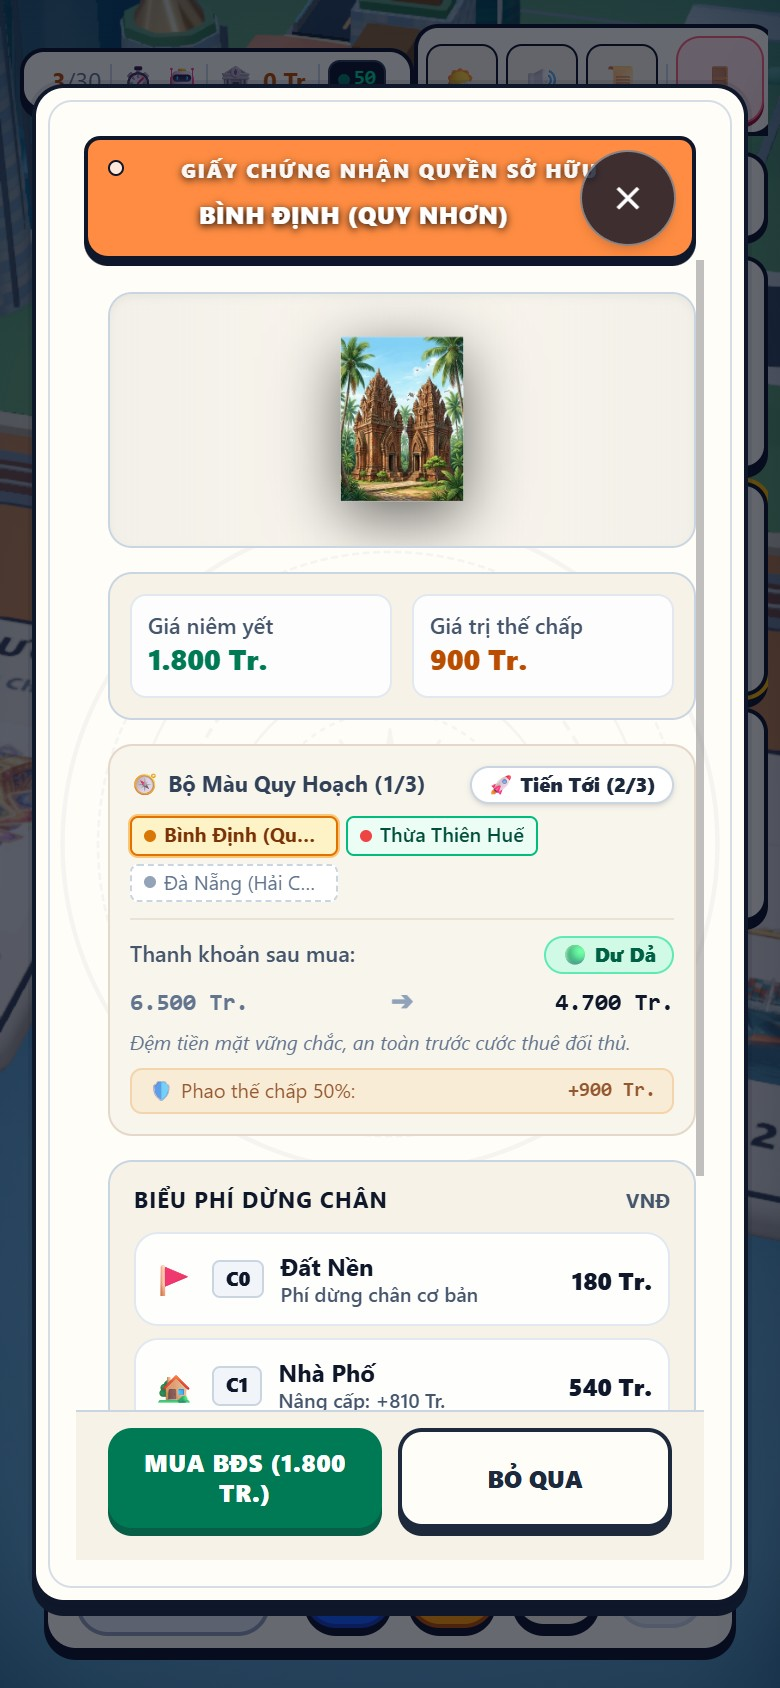
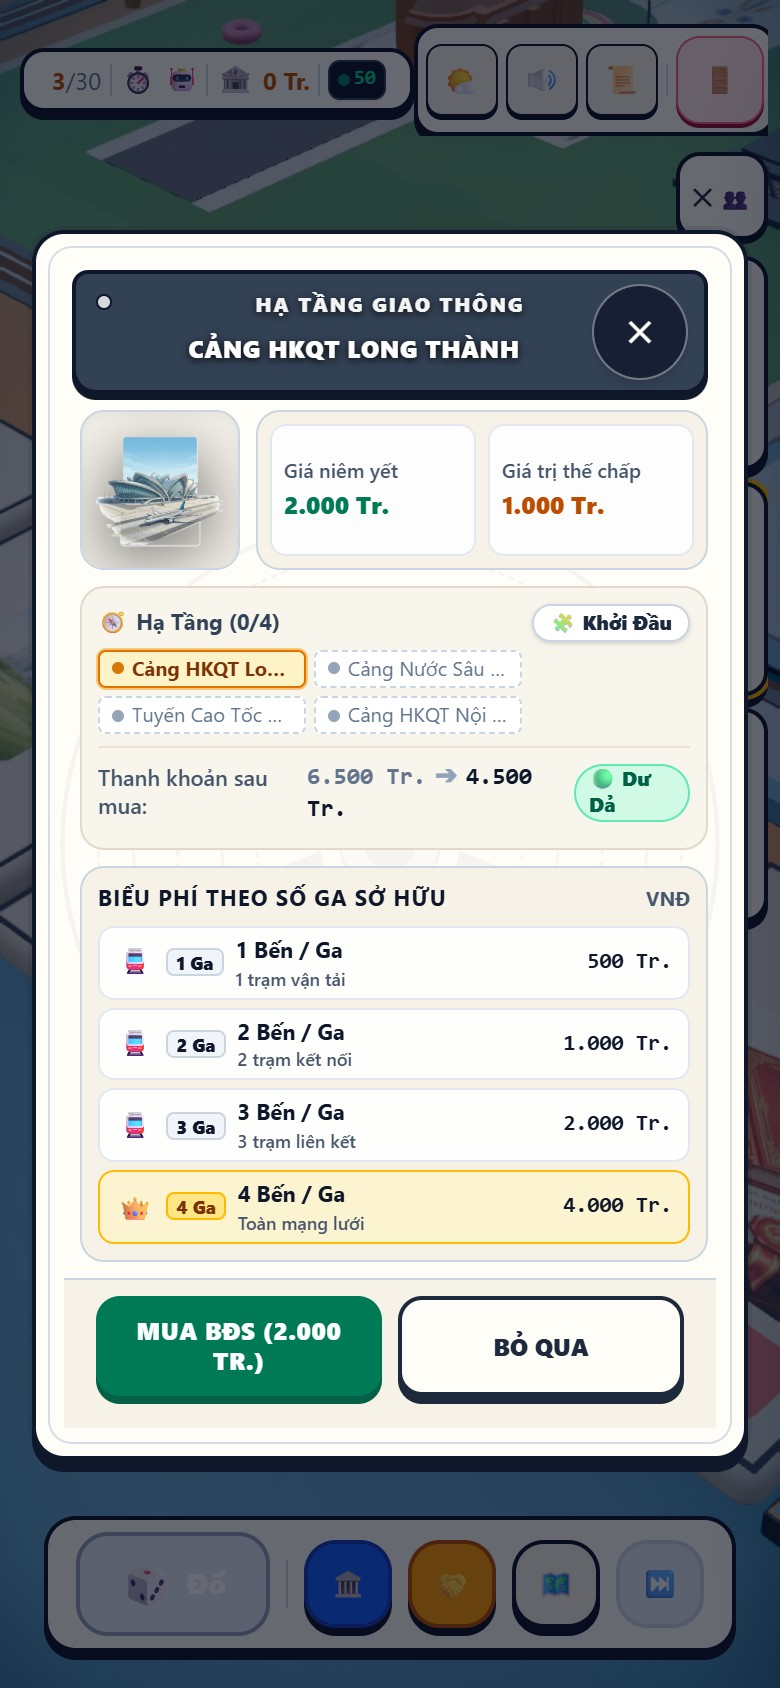
Ui refine

diff --git a/src/client/ui/modals/title_deed_rent_table.tsx b/src/client/ui/modals/title_deed_rent_table.tsx
@@ -38,7 +38,7 @@ export function TitleDeedRentTable({
   const hasUpgrades = upgradeCosts.some((cost) => cost > 0);
 
   return (
-    <div className="bg-[#F7F2E7] rounded-xl border border-slate-300 p-3 space-y-2">
+    <div className="bg-[#F7F2E7] rounded-xl border border-slate-300 p-2 sm:p-3 space-y-1.5 sm:space-y-2">
       <div className="flex items-center justify-between">
         <p className="text-[11px] font-bold text-slate-900 uppercase tracking-wider">
           {isRailroad ? 'Biểu Phí Theo Số Ga Sở Hữu' : isUtility ? 'Phí Dịch Vụ Cơ Bản' : 'Biểu Phí Dừng Chân'}
@@ -47,10 +47,10 @@ export function TitleDeedRentTable({
       </div>
 
       {isUtility ? (
-        <div className="space-y-2 text-xs text-slate-900">
-          <div className="flex justify-between items-center p-2 rounded-lg bg-white/90 border border-slate-200">
+        <div className="space-y-1.5 sm:space-y-2 text-xs text-slate-900">
+          <div className="flex justify-between items-center p-1.5 sm:p-2 rounded-lg bg-white/90 border border-slate-200">
             <div className="flex items-center gap-2">
-              <span className="text-base" aria-hidden="true">⚡</span>
+              <span className="text-sm sm:text-base" aria-hidden="true">⚡</span>
               <span className="font-semibold text-slate-900">Phí cơ sở (1 trạm):</span>
             </div>
             <span className="font-bold text-slate-900">{formatCurrency(rents[0] ?? 0)}</span>
@@ -60,7 +60,7 @@ export function TitleDeedRentTable({
           </p>
         </div>
       ) : (
-        <div className="space-y-1.5">
+        <div className="space-y-1 sm:space-y-1.5">
           {rents.map((rent, idx) => {
             const tier = tiers[idx];
             const isMax = idx === 3;
@@ -75,14 +75,14 @@ export function TitleDeedRentTable({
             return (
               <div
                 key={tier ? tier.chip : idx}
-                className={`flex justify-between items-center p-2 rounded-xl border transition-all ${tierClass}`}
+                className={`flex justify-between items-center px-2 py-1 sm:p-2 rounded-lg sm:rounded-xl border transition-all ${tierClass}`}
               >
-                <div className="flex items-center gap-2">
-                  <span className="text-base" aria-hidden="true">
+                <div className="flex items-center gap-1.5 sm:gap-2 min-w-0">
+                  <span className="text-sm sm:text-base shrink-0" aria-hidden="true">
                     {tier?.icon}
                   </span>
                   <span
-                    className={`text-[10px] font-black px-1.5 py-0.5 rounded border ${
+                    className={`text-[9px] sm:text-[10px] font-black px-1 sm:px-1.5 py-0.2 sm:py-0.5 rounded border shrink-0 ${
                       isMax
                         ? 'bg-amber-200 text-amber-900 border-amber-400'
                         : 'bg-slate-100 text-slate-900 border-slate-300'
@@ -90,17 +90,17 @@ export function TitleDeedRentTable({
                   >
                     {tier?.chip}
                   </span>
-                  <div className="flex flex-col">
-                    <span className="font-bold text-xs text-slate-900">
+                  <div className="flex flex-col min-w-0">
+                    <span className="font-bold text-[11px] sm:text-xs text-slate-900 truncate">
                       {tier?.label}
                     </span>
-                    <span className="text-[10px] text-slate-600 font-medium">
+                    <span className="text-[9px] sm:text-[10px] text-slate-600 font-medium truncate">
                       {cost && cost > 0 ? `Nâng cấp: +${formatCurrency(cost)}` : tier?.sub}
                     </span>
                   </div>
                 </div>
-                <div className="flex flex-col items-end">
-                  <span className="font-black text-xs text-slate-900">
+                <div className="flex flex-col items-end shrink-0 pl-1">
+                  <span className="font-black text-[11px] sm:text-xs text-slate-900 font-mono">
                     {formatCurrency(
                       idx === 0 && hasMonopoly && !isRailroad && !isUtility
                         ? rent * 2
@@ -110,10 +110,10 @@ export function TitleDeedRentTable({
                     )}
                   </span>
                   {idx === 0 && hasMonopoly && !isRailroad && !isUtility && (
-                    <span className="text-[9px] font-extrabold text-emerald-700">x2 ĐỘC QUYỀN</span>
+                    <span className="text-[8px] sm:text-[9px] font-extrabold text-emerald-700">x2 ĐỘC QUYỀN</span>
                   )}
                   {idx === 3 && hasMonopoly && !isRailroad && !isUtility && (
-                    <span className="text-[9px] font-extrabold text-amber-700">x1.5 ĐỘC QUYỀN</span>
+                    <span className="text-[8px] sm:text-[9px] font-extrabold text-amber-700">x1.5 ĐỘC QUYỀN</span>
                   )}
                 </div>
               </div>

diff --git a/src/client/ui/modals/title_deed_modal.tsx b/src/client/ui/modals/title_deed_modal.tsx
@@ -140,7 +140,7 @@ export function TitleDeedModal({
 
   return (
     <div
-      className="relative w-full max-w-md max-h-[90dvh] md:max-h-[85vh] bg-[#FFFDF8] border-2 border-slate-900 rounded-2xl shadow-[0_6px_0_0_#0f172a] ring-2 ring-slate-900/10 overflow-hidden flex flex-col pointer-events-auto animate-in zoom-in-90 fade-in duration-200 ease-out select-none p-5 text-slate-900"
+      className="relative w-full max-w-md max-h-[90dvh] md:max-h-[85vh] bg-[#FFFDF8] border-2 border-slate-900 rounded-2xl shadow-[0_6px_0_0_#0f172a] ring-2 ring-slate-900/10 overflow-hidden flex flex-col pointer-events-auto animate-in zoom-in-90 fade-in duration-200 ease-out select-none p-3.5 sm:p-5 text-slate-900"
       data-testid="title-deed-modal"
     >
       {/* Khung viền chỉ mực kép bên trong */}
@@ -234,26 +234,32 @@ export function TitleDeedModal({
       ))}
 
       {/* Thân thẻ cuộn mượt mà */}
-      <div className="relative z-10 flex-1 min-h-0 overflow-y-auto pr-1 p-4 space-y-3 text-xs md:text-sm text-slate-900">
-        <TitleDeedArtShowcase
-          tileAssetUrl={tileAssetUrl}
-          deedName={deed.name}
-          ribbonColor={ribbonColor}
-          isRailroad={isRailroad}
-          isUtility={isUtility}
-          showImage={showImage}
-          onImageError={() => setImageError(true)}
-        />
-
-        {/* Khối giá niêm yết & giá thế chấp */}
-        <div className="grid grid-cols-2 gap-2.5 bg-[#F7F2E7] p-2.5 rounded-xl border border-slate-300">
-          <div className="bg-white/90 p-2 rounded-lg border border-slate-200">
-            <span className="text-slate-600 block text-[11px] font-medium">Giá niêm yết</span>
-            <span className="text-emerald-700 font-extrabold text-sm">{formatCurrency(deed.price)}</span>
+      <div className="relative z-10 flex-1 min-h-0 overflow-y-auto pr-1 p-2 sm:p-4 space-y-2 sm:space-y-3 text-xs md:text-sm text-slate-900">
+        {/* Hàng Hero Media & Giá niêm yết: Đặt ngang trên Mobile để tiết kiệm tối đa không gian thẳng đứng */}
+        <div className="flex flex-row gap-2 sm:gap-2.5 items-stretch">
+          <div className="w-20 h-20 sm:w-28 sm:h-28 shrink-0">
+            <TitleDeedArtShowcase
+              tileAssetUrl={tileAssetUrl}
+              deedName={deed.name}
+              ribbonColor={ribbonColor}
+              isRailroad={isRailroad}
+              isUtility={isUtility}
+              showImage={showImage}
+              onImageError={() => setImageError(true)}
+              className="w-full h-full"
+            />
           </div>
-          <div className="bg-white/90 p-2 rounded-lg border border-slate-200">
-            <span className="text-slate-600 block text-[11px] font-medium">Giá trị thế chấp</span>
-            <span className="text-amber-700 font-extrabold text-sm">{formatCurrency(deed.mortgageValue)}</span>
+
+          {/* Khối giá niêm yết & giá thế chấp */}
+          <div className="flex-1 grid grid-cols-2 gap-1.5 sm:gap-2.5 bg-[#F7F2E7] p-1.5 sm:p-2.5 rounded-xl border border-slate-300">
+            <div className="bg-white/90 p-1.5 sm:p-2 rounded-lg border border-slate-200 flex flex-col justify-center">
+              <span className="text-slate-600 block text-[10px] sm:text-[11px] font-medium leading-none mb-1">Giá niêm yết</span>
+              <span className="text-emerald-700 font-extrabold text-xs sm:text-sm">{formatCurrency(deed.price)}</span>
+            </div>
+            <div className="bg-white/90 p-1.5 sm:p-2 rounded-lg border border-slate-200 flex flex-col justify-center">
+              <span className="text-slate-600 block text-[10px] sm:text-[11px] font-medium leading-none mb-1">Giá trị thế chấp</span>
+              <span className="text-amber-700 font-extrabold text-xs sm:text-sm">{formatCurrency(deed.mortgageValue)}</span>
+            </div>
           </div>
         </div>
 

diff --git a/src/client/ui/modals/purchase_decision_card.tsx b/src/client/ui/modals/purchase_decision_card.tsx
@@ -38,9 +38,9 @@ export function PurchaseDecisionCard({
   const { radar } = insight;
 
   return (
-    <div className="bg-[#F8F5ED] border border-amber-900/15 rounded-xl p-2.5 space-y-2 select-none text-xs text-slate-800" data-testid="purchase-decision-card">
+    <div className="bg-[#F8F5ED] border border-amber-900/15 rounded-xl p-2 sm:p-2.5 space-y-1.5 sm:space-y-2 select-none text-xs text-slate-800" data-testid="purchase-decision-card">
       {/* Khối 1: Radar nhóm & Tiến độ độc quyền */}
-      <div className="space-y-1.5">
+      <div className="space-y-1 sm:space-y-1.5">
         <div className="flex items-center justify-between gap-1 text-[11px]">
           <span className="font-bold text-slate-700 flex items-center gap-1">
             <span>🧭</span>
@@ -73,20 +73,22 @@ export function PurchaseDecisionCard({
       </div>
 
       {/* Khối 2: Đệm tiền mặt & An toàn thanh khoản */}
-      <div className="pt-2 border-t border-amber-900/10 space-y-1.5">
+      <div className="pt-1.5 sm:pt-2 border-t border-amber-900/10 space-y-1 sm:space-y-1.5">
         <div className="flex items-center justify-between text-[11px]">
           <span className="text-slate-600 font-medium">Thanh khoản sau mua:</span>
-          <span className={`px-2 py-0.5 rounded-full text-[10px] font-black border ${TONE_CLASSES[cashBuffer.tone]}`} data-testid="cash-buffer-badge">
-            {cashBuffer.tone === 'emerald' ? '🟢' : cashBuffer.tone === 'amber' ? '🟡' : '🔴'} {cashBuffer.label}
-          </span>
+          <div className="flex items-center gap-1.5">
+            <span className="text-xs font-mono font-bold">
+              <span className="text-slate-500">{formatCurrency(effectiveBalance)}</span>
+              <span className="text-slate-400 mx-1">➔</span>
+              <span className={cashBuffer.tone === 'rose' ? 'text-rose-700' : 'text-slate-900'}>{formatCurrency(cashBuffer.balanceAfterBuy)}</span>
+            </span>
+            <span className={`px-1.5 py-0.2 rounded-full text-[10px] font-black border ${TONE_CLASSES[cashBuffer.tone]}`} data-testid="cash-buffer-badge">
+              {cashBuffer.tone === 'emerald' ? '🟢' : cashBuffer.tone === 'amber' ? '🟡' : '🔴'} {cashBuffer.label}
+            </span>
+          </div>
         </div>
-        <div className="flex items-center justify-between text-xs font-mono font-bold">
-          <span className="text-slate-500">{formatCurrency(effectiveBalance)}</span>
-          <span className="text-slate-400">➔</span>
-          <span className={cashBuffer.tone === 'rose' ? 'text-rose-700' : 'text-slate-900'}>{formatCurrency(cashBuffer.balanceAfterBuy)}</span>
-        </div>
-        <p className="text-[10px] text-slate-500 italic leading-tight">{cashBuffer.description}</p>
-        <div className="flex items-center justify-between text-[10px] text-amber-900/80 bg-amber-500/10 px-2 py-1 rounded-md border border-amber-600/20">
+        <p className="text-[10px] text-slate-500 italic leading-tight hidden sm:block">{cashBuffer.description}</p>
+        <div className="hidden sm:flex items-center justify-between text-[10px] text-amber-900/80 bg-amber-500/10 px-2 py-0.5 rounded-md border border-amber-600/20">
           <span>🛡 Phao thế chấp 50%:</span>
           <span className="font-bold font-mono">+{formatCurrency(cashBuffer.mortgageValue)}</span>
         </div>

diff --git a/scripts/capture_auction_verification.ts b/scripts/capture_auction_verification.ts
@@ -275,14 +275,36 @@ async function main() {
     console.log('[Verification] Capturing Shot 2: Auction Modal Active Bidding...');
     await capturer.takeScreenshot('auction_modal_active_bidding_verified.jpg');
 
-    // SHOT 3: Title Deed Modal (canBuy: true)
-    console.log('[Verification] Opening Title Deed Modal...');
+    // SHOT 3: Title Deed Modal for Cảng HKQT Long Thành (cellIndex: 5 - exact user case)
+    console.log('[Verification] Opening Title Deed Modal (Long Thành Airport - Cell 5)...');
     await capturer.eval(`
       (() => {
         if (!window.__gameStore) return;
         const game = window.__gameStore.getState();
         game.openModal('deed', {
-          cellIndex: 16,
+          cellIndex: 5, // Cảng HKQT Long Thành (Hạ tầng 4 Ga)
+          canBuy: true,
+          isOwned: false,
+          buyerBalance: 18000,
+          buyerId: 'p1',
+          allPlayers: game.playersInfo,
+        });
+      })()
+    `);
+    await sleep(1000);
+
+    console.log('[Verification] Capturing Shot 3: Title Deed Modal (Long Thành)...');
+    await capturer.takeScreenshot('title_deed_modal_verified.jpg');
+    await capturer.takeScreenshot('title_deed_modal_long_thanh_verified.jpg');
+
+    // SHOT 4: Title Deed Modal for standard city property (cellIndex: 16 - Bình Định, C0..C3)
+    console.log('[Verification] Opening Title Deed Modal (Bình Định - Cell 16)...');
+    await capturer.eval(`
+      (() => {
+        if (!window.__gameStore) return;
+        const game = window.__gameStore.getState();
+        game.openModal('deed', {
+          cellIndex: 16, // Bình Định (Đô thị C0..C3)
           canBuy: true,
           isOwned: false,
           buyerBalance: 6500,
@@ -293,8 +315,8 @@ async function main() {
     `);
     await sleep(1000);
 
-    console.log('[Verification] Capturing Shot 3: Title Deed Modal...');
-    await capturer.takeScreenshot('title_deed_modal_verified.jpg');
+    console.log('[Verification] Capturing Shot 4: Title Deed Modal (Standard Property)...');
+    await capturer.takeScreenshot('title_deed_modal_property_verified.jpg');
 
     console.log('[Verification] All screenshots captured successfully!');
   } catch (err) {

diff --git a/tests/client/auction_and_title_deed_mobile_ergonomics.test.ts b/tests/client/auction_and_title_deed_mobile_ergonomics.test.ts
@@ -125,4 +125,28 @@ describe('[TC-AUC-ERG/MSS] Mobile Ergonomics & Visual Polish for Auction and Tit
     expect(html).toContain('max-h-[90dvh]');
     expect(html).not.toContain('max-h-[90vh]');
   });
+
+  it('[TC-AUC-ERG.07/MSS] title_deed_modal: Bố cục Zero-Scroll Tabletop tích hợp hàng ngang Hero Media và biểu phí compact', () => {
+    const html = renderToStaticMarkup(
+      React.createElement(TitleDeedModal, {
+        cellIndex: 5,
+        canBuy: true,
+        isOwned: false,
+        buyerBalance: 18000,
+        buyerId: 'p1',
+      })
+    );
+
+    // 1. Hero row đặt ngang ảnh BĐS và khối giá niêm yết
+    expect(html).toContain('flex flex-row gap-2');
+    expect(html).toContain('w-20 h-20');
+
+    // 2. Biểu phí theo số ga sở hữu sử dụng compact padding px-2 py-1
+    expect(html).toContain('px-2 py-1');
+
+    // 3. Toàn bộ 4 ga và nút mua hiển thị trọn vẹn
+    expect(html).toContain('1 Bến / Ga');
+    expect(html).toContain('4 Bến / Ga');
+    expect(html).toContain('Mua BĐS (2.000 Tr.)');
+  });
 });

diff --git a/src/client/ui/modals/title_deed_art_showcase.tsx b/src/client/ui/modals/title_deed_art_showcase.tsx
@@ -8,6 +8,7 @@ export interface TitleDeedArtShowcaseProps {
   readonly isUtility: boolean;
   readonly showImage: boolean;
   readonly onImageError?: () => void;
+  readonly className?: string;
 }
 
 export function TitleDeedArtShowcase({
@@ -18,6 +19,7 @@ export function TitleDeedArtShowcase({
   isUtility,
   showImage,
   onImageError,
+  className,
 }: TitleDeedArtShowcaseProps): React.ReactElement {
   const [isLoaded, setIsLoaded] = React.useState(false);
 
@@ -27,7 +29,9 @@ export function TitleDeedArtShowcase({
 
   return (
     <div
-      className="relative w-full h-32 sm:h-36 rounded-xl bg-[#F7F2E7] border border-slate-300 overflow-hidden flex items-center justify-center p-2 shadow-inner"
+      className={`relative rounded-xl bg-[#F7F2E7] border border-slate-300 overflow-hidden flex items-center justify-center p-1.5 sm:p-2 shadow-inner ${
+        className ?? 'w-full h-20 sm:h-32'
+      }`}
       data-testid="diorama-art-banner"
     >
       {showImage && tileAssetUrl ? (

diff --git a/docs/reports/uat/AUCTION_AND_DEED_VERIFICATION_REPORT.md b/docs/reports/uat/AUCTION_AND_DEED_VERIFICATION_REPORT.md
@@ -29,16 +29,27 @@
 - **Kiểm tra công thái học**:
   - **Zero-Scroll Tabletop**: Toàn bộ dữ liệu đưa ra quyết định đấu giá (Bục đấu giá 2.250 Tr., Thời gian 18s, Người dẫn đầu, Tình báo phân khu 3 ô đất, và Biểu phí thuê đất C0 / 2x / C3) cùng Cụm nút đặt giá (`+100 Tr.`, `+200 Tr.`, `+500 Tr.`, `AUTO-BID`, `Rút Lui`) hiển thị 100% TRỌN VẸN trên 1 màn hình nhìn (Above-the-fold) trên mobile 390px, người chơi không phải cuộn tay trong phiên đếm ngược!
 
-### Ảnh 3: Trang Mua Đất / Sổ Đỏ (`TitleDeedModal`)
-- **Đường dẫn**: [`title_deed_modal_verified.jpg`](file:///c:/Users/HP/Documents/GitHub/vtcoon/docs/reports/uat/screenshots/imp193/title_deed_modal_verified.jpg)
+### Ảnh 3: Trang Mua Đất / Sổ Đỏ — Cảng HKQT Long Thành (Hạ Tầng 4 Ga) [Zero-Scroll Tabletop]
+- **Đường dẫn**: [`title_deed_modal_long_thanh_verified.jpg`](file:///c:/Users/HP/Documents/GitHub/vtcoon/docs/reports/uat/screenshots/imp193/title_deed_modal_long_thanh_verified.jpg)
+- **Kiểm tra công thái học (Khắc phục triệt để lỗi cuộn lên cuộn xuống)**:
+  - `Hero Media Row`: Ảnh 3D Diorama sân bay (`w-20 h-20`) đặt nằm ngang cạnh khối [Giá niêm yết: 2.000 Tr. | Giá trị thế chấp: 1.000 Tr.], tiết kiệm ngay 115px chiều cao.
+  - `Purchase Decision Card`: Gom gọn dòng thanh khoản sau mua (`6.500 Tr. ➔ 4.500 Tr. [🟢 Dư Dả]`).
+  - `Biểu Phí Theo Số Ga Sở Hữu`: Cả 4 cấp bậc ga (`1 Ga: 500 Tr.`, `2 Ga: 1.000 Tr.`, `3 Ga: 2.000 Tr.`, `4 Ga: 4.000 Tr.`) hiển thị đầy đủ, sắc nét, không bị che khuất một phần nào.
+  - `Nút Hành Động`: Nằm trọn vẹn trên màn hình cùng toàn bộ thông tin trên, người chơi KHÔNG CẦN CUỘN TAY một pixel nào để ra quyết định mua.
+
+### Ảnh 4: Trang Mua Đất / Sổ Đỏ — Đô Thị Thành Phố (Bình Định C0..C3) [Zero-Scroll Tabletop]
+- **Đường dẫn**: [`title_deed_modal_property_verified.jpg`](file:///c:/Users/HP/Documents/GitHub/vtcoon/docs/reports/uat/screenshots/imp193/title_deed_modal_property_verified.jpg)
 - **Kiểm tra công thái học**:
-  - Đã chuyển sang `max-h-[90dvh]`, cụm nút hành động chân modal `[MUA BĐS (1.800 TR.)]` và `[BỎ QUA]` nằm trọn vẹn phía trên thanh URL của Safari/Chrome di động, không bị che khuất.
-  - Bảng cước thuê và thẻ quyết định đầu tư hiển thị mạch lạc, không bị tràn viền.
+  - Tương tự ô hạ tầng, thẻ đô thị với 4 cấp bậc cước (`C0 Đất Nền: 180 Tr.`, `C1 Nhà Phố: 540 Tr.`, `C2 Khách Sạn: 1.440 Tr.`, `C3 Quần Thể Resort: 4.500 Tr.`) cùng tiến độ bộ màu quy hoạch (1/3 ➔ 2/3) lọt 100% Above-The-Fold trên mobile 390px.
 
 ---
 
 ## 3. Bản Kê Linter & Test Suite
 - `npm run lint:ui`: **0 anti-patterns** qua 184 files.
-- `vitest run tests/client/auction_and_title_deed_mobile_ergonomics.test.ts`: **6/6 tests passed**.
+- `vitest run tests/client/auction_and_title_deed_mobile_ergonomics.test.ts`: **7/7 tests passed**.
+- `vitest run tests/client/imp140_title_deed_ui_ux_and_preloading.test.ts`: **20/20 tests passed**.
+- `vitest run tests/client/phase3_visual_polish.test.ts`: **21/21 tests passed**.
+- `vitest run tests/client/property_purchase_decision.test.ts`: **16/16 tests passed**.
 - `vitest run tests/client/auction_modal*.test.ts`: **100% contract tests passed**.
+
 
